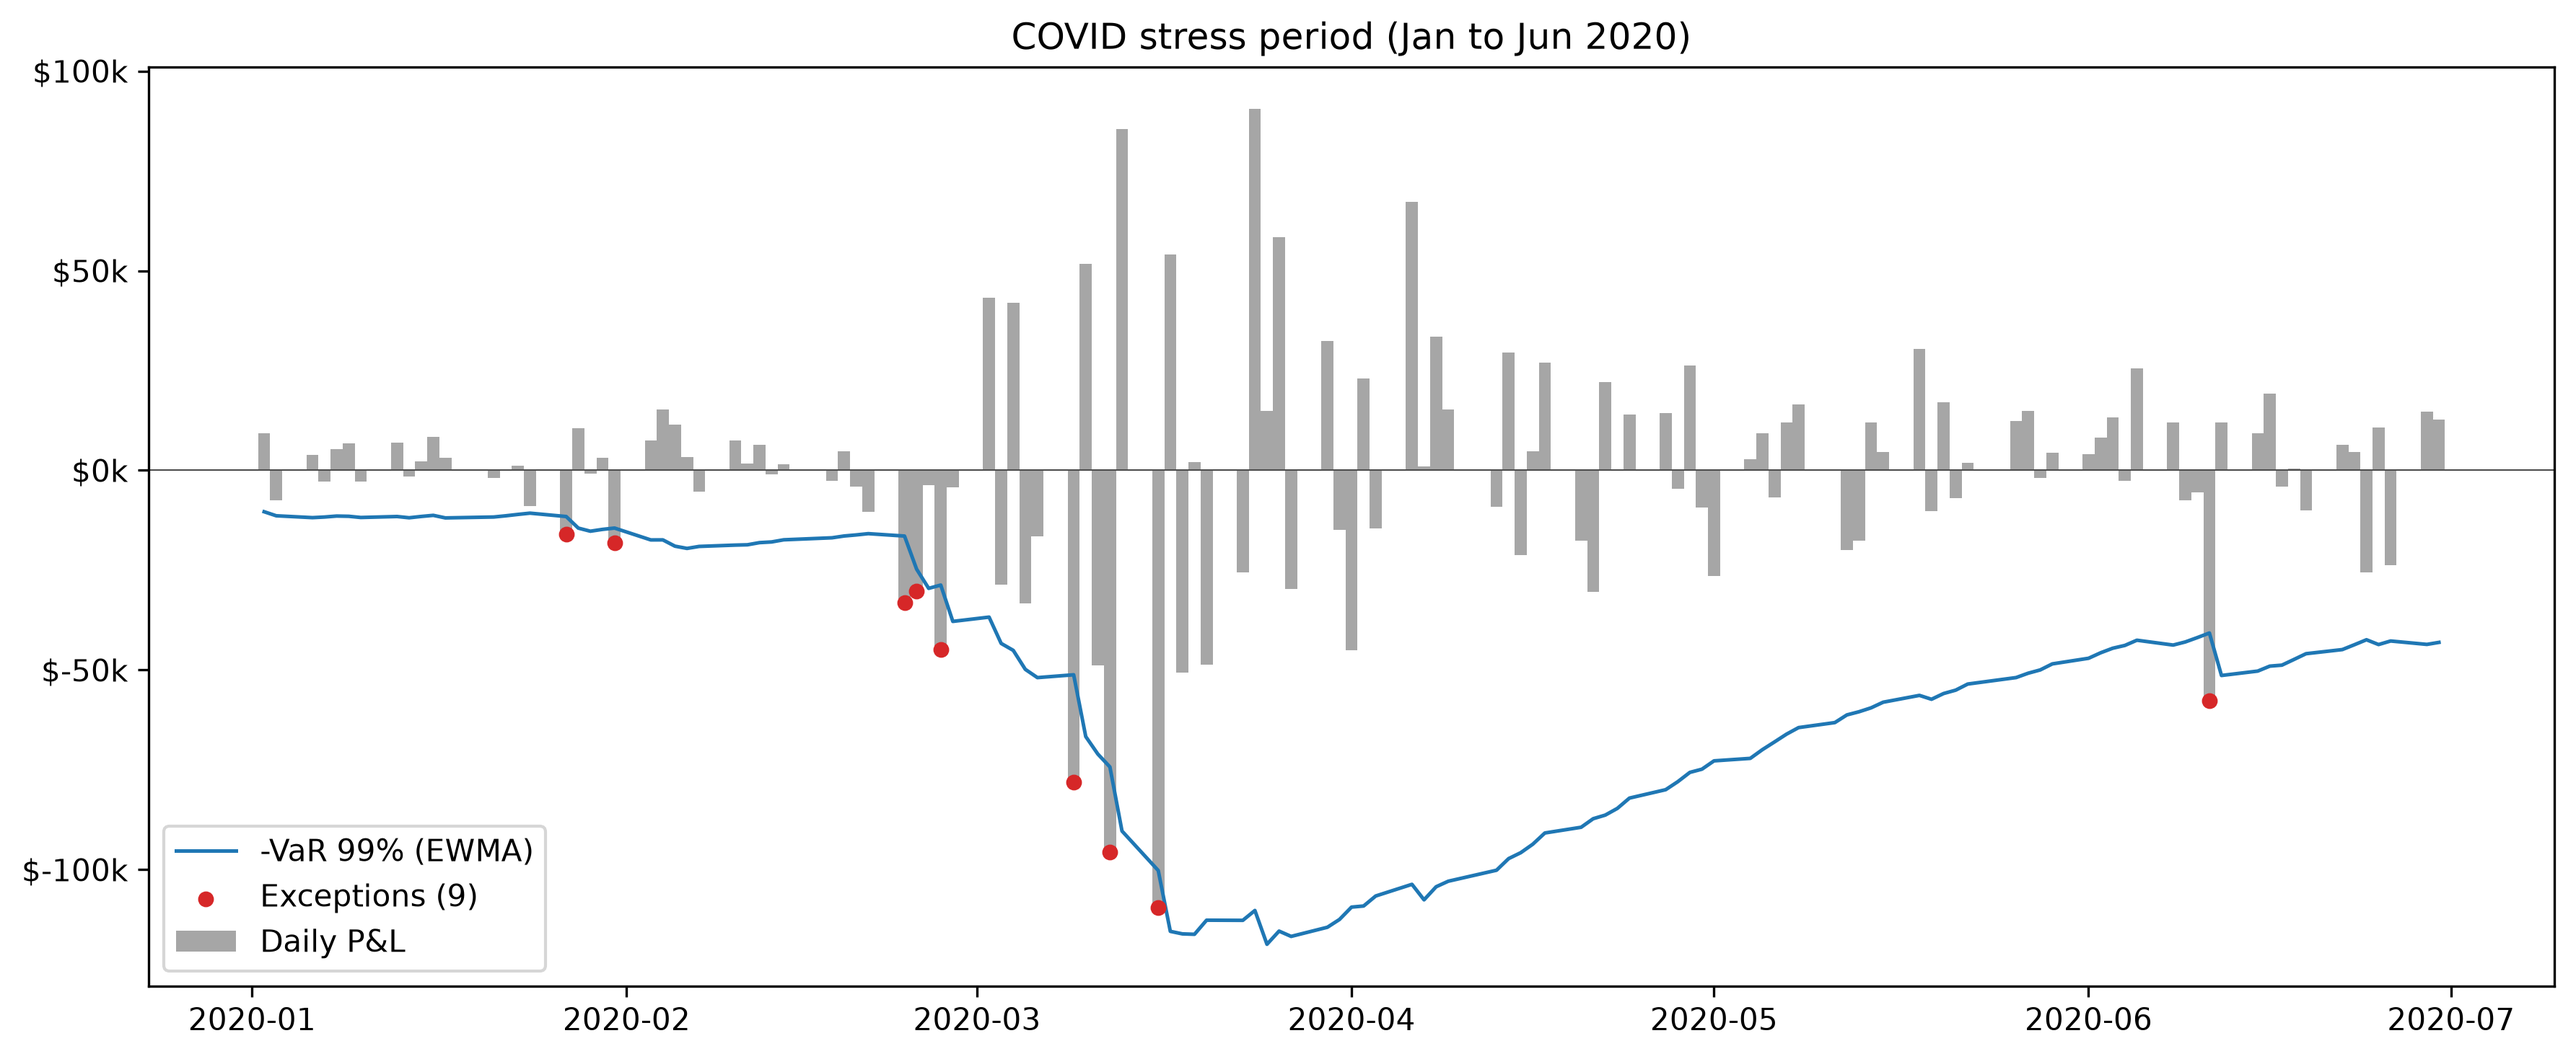
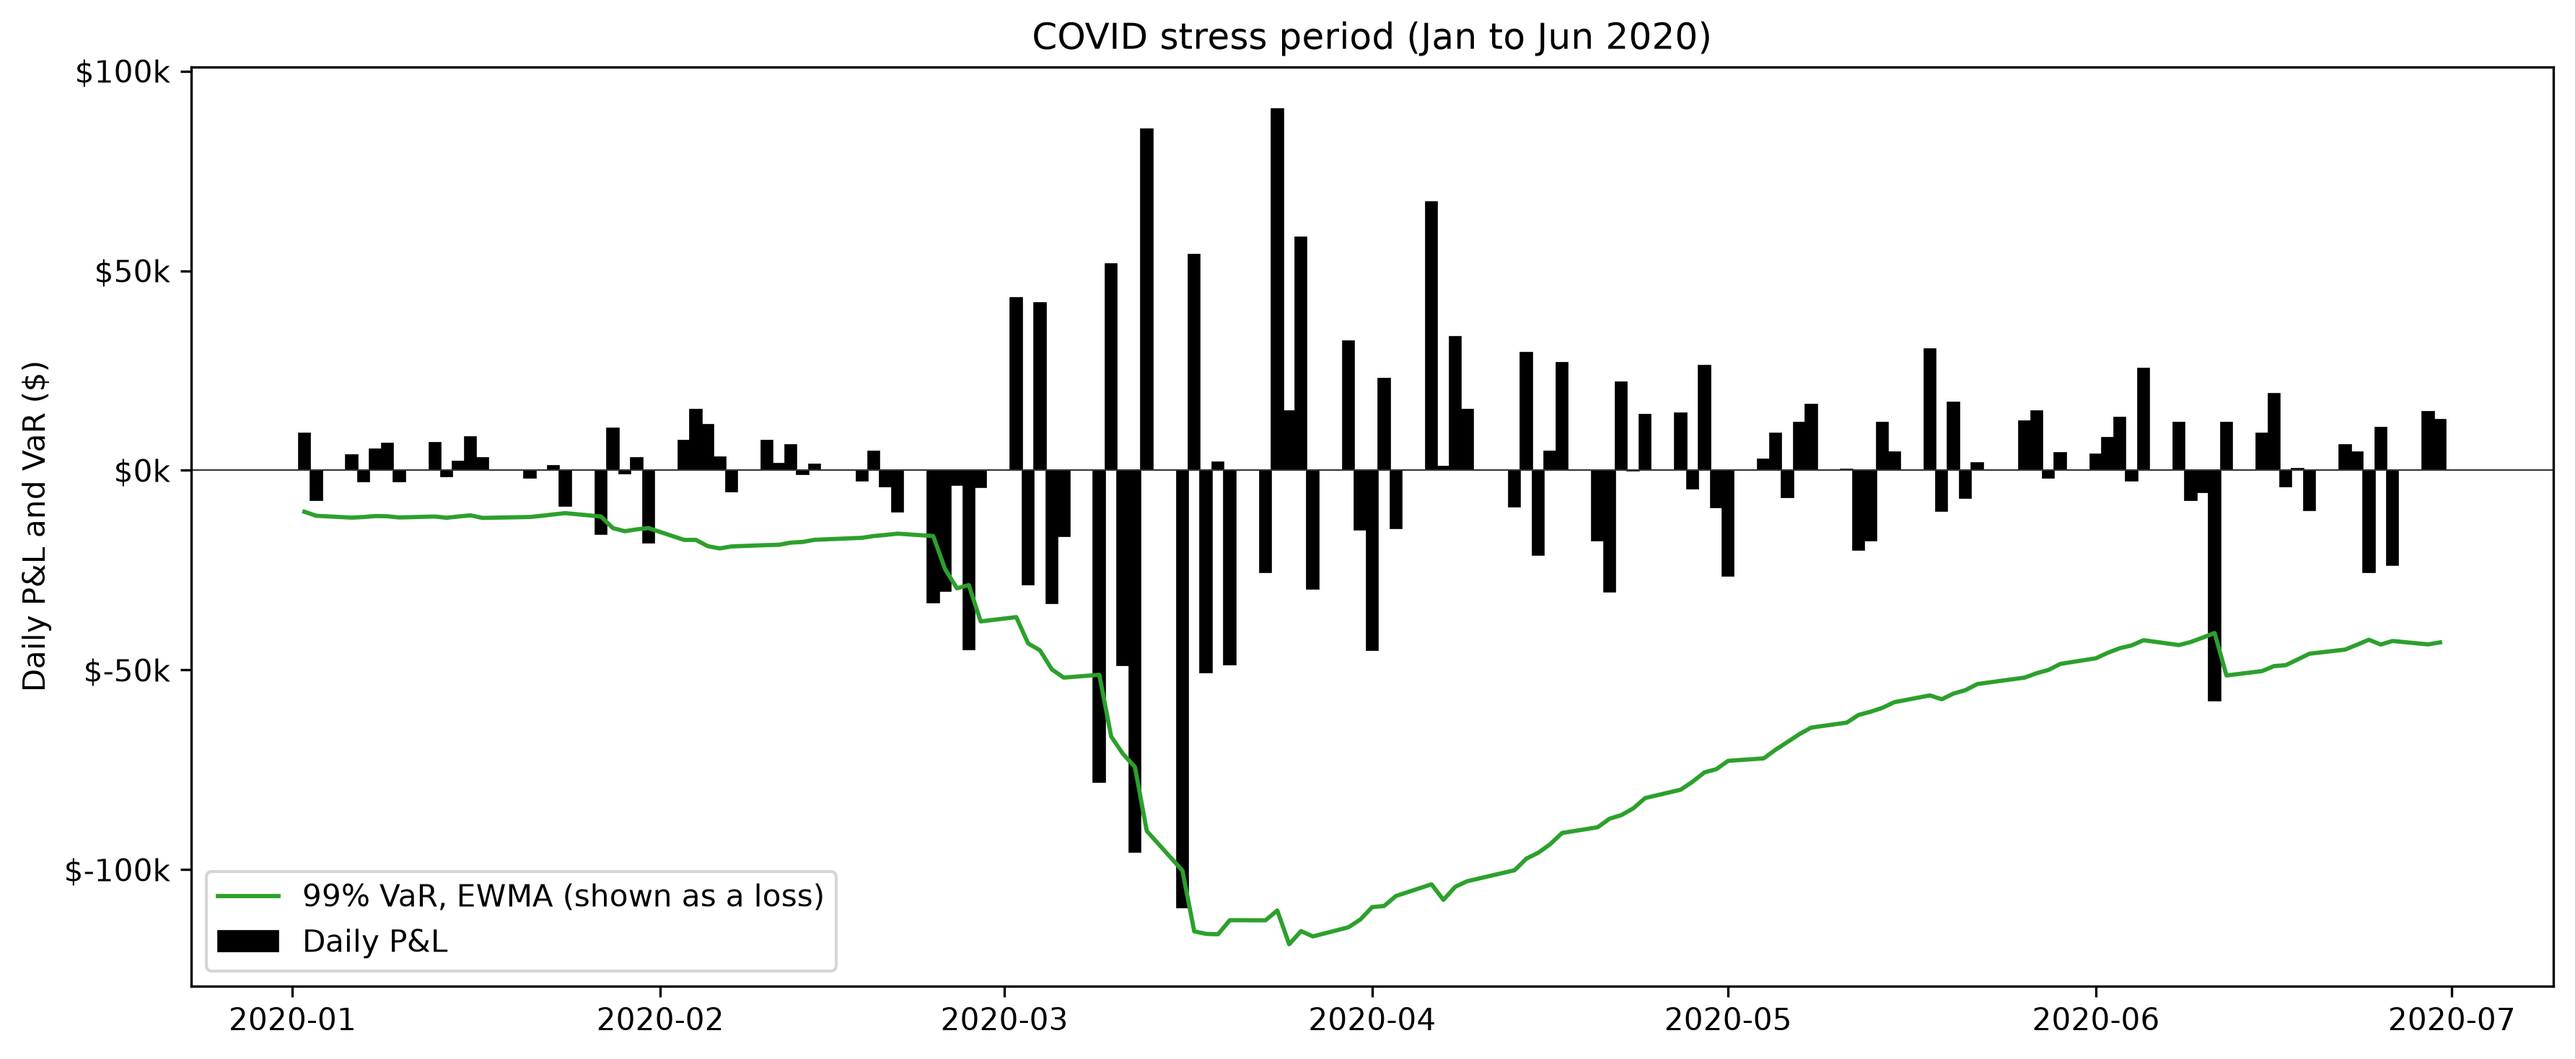
Update EWMA charts for the mid practice presentation
- Remove exception markers; exception counts belong to validation
- Draw daily P&L in black to match the Historical and Parametric charts
- Draw the EWMA VaR line in green, its color in the model comparison chart
- Add a y-axis label and state in the legend that VaR is shown as a loss

Model output (ewma_var_output.csv) is unchanged.

diff --git a/notebooks/03_ewma_var/ewma_var.py b/notebooks/03_ewma_var/ewma_var.py
@@ -130,14 +130,15 @@ def by_year(results: pd.DataFrame) -> pd.DataFrame:
 
 
 def plot_var(df: pd.DataFrame, title: str, path: Path) -> None:
-    exc = df[df["Exception"]]
+    # VaR is drawn as a negative number so it sits on the loss side of the P&L bars.
+    # Exceptions are not marked; counting them belongs to validation.
     fig, ax = plt.subplots(figsize=(12, 5))
-    ax.bar(df["Date"], df["Portfolio_PnL"], width=1.0, color="0.65", label="Daily P&L")
-    ax.plot(df["Date"], -df["VaR_99"], color="tab:blue", lw=1.2, label="-VaR 99% (EWMA)")
-    ax.scatter(exc["Date"], exc["Portfolio_PnL"], color="tab:red", s=18, zorder=3,
-               label=f"Exceptions ({len(exc)})")
-    ax.axhline(0, color="0.3", lw=0.5)
+    ax.bar(df["Date"], df["Portfolio_PnL"], width=1.0, color="black", edgecolor="black", lw=0.4,
+           label="Daily P&L")
+    ax.plot(df["Date"], -df["VaR_99"], color="tab:green", lw=1.4, label="99% VaR, EWMA (shown as a loss)")
+    ax.axhline(0, color="0.2", lw=0.5)
     ax.yaxis.set_major_formatter(plt.FuncFormatter(lambda v, _: f"${v/1000:,.0f}k"))
+    ax.set_ylabel("Daily P&L and VaR ($)")
     ax.set_title(title)
     ax.legend(loc="lower left")
     fig.tight_layout()
